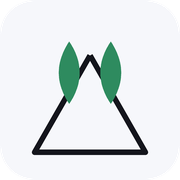
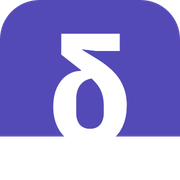
Brand: the mark is now the lowercase Greek delta
The mark was a drawn triangle with two mint sprigs in it. It gestured at a
delta without being one, and the sprigs were a pun on the second half of the
name rather than anything a trader reads.

It is now the letter itself: the lowercase delta, the one on every option
chain and in our own positions table. The product is named after it and
reports it; the logo may as well be it.

WHY A BAKED PATH AND NOT <text>.

The glyph is IBM Plex Sans 700 -- the family the wordmark beside it is already
set in, so the mark and the word are one drawing used twice rather than a
shape bolted to a word. But a <text> element resolves against whatever font
the renderer has: a browser mid-webfont-load, a tab strip that loads no
webfonts at all, an email client, the PDF exporter. Each would substitute a
different delta and the brand would change shape depending on where it was
looked at. The outline was extracted once from the Plex Sans 700 Greek subset
(U+03B4) and baked into coordinates, so every surface draws the identical
letter with nothing to load. IBM Plex is OFL-licensed, which permits this.

It is centred on the glyph's own bounds, not its advance width -- a letter
carries side bearings meant for setting words, and leaving them in puts a
standalone mark visibly off-centre.

THE WORDMARK IS UNTOUCHED. Still lowercase, still mint on "mint". That was the
instruction and it is the smaller change; casing is a separate decision and is
still open.
[…]

diff --git a/src/components/brand/DeltaMintMark.jsx b/src/components/brand/DeltaMintMark.jsx
@@ -1,10 +1,35 @@
-// The DeltaMint mark: violet delta outline with two mint sprigs. Never recolored.
-export default function DeltaMintMark({ size = 26, className = "" }) {
+// The DeltaMint mark: the lowercase Greek delta.
+//
+// Not a drawn triangle any more. The mark IS the letter traders already read on
+// every option chain — the same delta the product is named after and the same
+// one it reports in the positions table — so the logo and the vocabulary agree
+// instead of the logo gesturing at it with a shape.
+//
+// WHY THIS IS A PATH AND NOT <text>.
+//
+// The glyph is IBM Plex Sans 700, the family the wordmark beside it is set in,
+// so the mark and the word are one drawing used twice. But a <text> element
+// resolves against whatever font the renderer happens to have: a browser that
+// has not finished loading Plex, a favicon tab strip that loads no webfonts at
+// all, an email client, a PDF exporter — each would substitute a different
+// delta, and the brand would quietly change shape depending on where it was
+// looked at. The outline was extracted once from the Plex Sans 700 Greek subset
+// (U+03B4) and baked into coordinates, so every surface draws the identical
+// letter with nothing to load. IBM Plex is OFL-licensed, which permits this.
+//
+// Fitted to a 32-unit box with 3 units of margin top and bottom, horizontally
+// centred on the glyph's own bounds rather than its advance width — a letter
+// carries side bearings meant for setting words, and leaving them in makes a
+// standalone mark sit visibly off-centre.
+export const DELTA_PATH =
+  "M16.97 13.27Q15.62 13.3 14.69 13.94Q13.75 14.58 13.29 15.64Q12.82 16.69 12.82 18.11V21.36Q12.82 22.5 13.2 23.31Q13.58 24.12 14.29 24.54Q15 24.95 16 24.95Q17 24.95 17.71 24.54Q18.42 24.12 18.8 23.31Q19.18 22.5 19.18 21.36V19.56Q19.18 18.52 18.99 17.61Q18.8 16.69 18.4 15.88Q18.01 15.07 17.33 14.31Q16.66 13.55 15.72 12.82L9.36 7.84V3H22.88V6.98H17.42L14.2 6.6V6.73L17.83 8.95Q19.66 10.09 20.94 11.28Q22.22 12.47 23 13.79Q23.78 15.1 24.14 16.52Q24.51 17.94 24.51 19.49Q24.51 22.43 23.49 24.56Q22.47 26.68 20.56 27.84Q18.66 29 16 29Q13.34 29 11.44 27.82Q9.53 26.65 8.51 24.61Q7.49 22.57 7.49 19.94Q7.49 17.24 8.39 15.38Q9.29 13.51 10.74 12.54Q12.2 11.57 13.89 11.57V10.81Z";
+
+// One shape, one fill. The mark stays legible in a single colour, which is what
+// a favicon, a printed page and an email signature all eventually reduce it to.
+export default function DeltaMintMark({ size = 26, color = "#534AB7", className = "" }) {
   return (
-    <svg width={size} height={size} viewBox="0 0 26 26" className={className} aria-hidden="true">
-      <path d="M13 8 L21 22 L5 22 Z" fill="none" stroke="#534AB7" strokeWidth="1.6" />
-      <path d="M10 15 Q13 10.5 10 6 Q7 10.5 10 15 Z" fill="#3FA672" />
-      <path d="M16 15 Q19 10.5 16 6 Q13 10.5 16 15 Z" fill="#3FA672" />
+    <svg width={size} height={size} viewBox="0 0 32 32" className={className} aria-hidden="true">
+      <path d={DELTA_PATH} fill={color} />
     </svg>
   );
 }

diff --git a/landing/drafts/pricing/index.html b/landing/drafts/pricing/index.html
@@ -117,7 +117,7 @@
 <div class="wrap">
   <nav class="nav">
     <a class="brandmark" href="/">
-      <svg width="24" height="24" viewBox="0 0 26 26" aria-hidden="true"><path d="M13 8 L21 22 L5 22 Z" fill="none" stroke="currentColor" stroke-width="1.6"/><path d="M10 15 Q13 10.5 10 6 Q7 10.5 10 15 Z" fill="#3FA672"/><path d="M16 15 Q19 10.5 16 6 Q13 10.5 16 15 Z" fill="#3FA672"/></svg>
+      <svg width="24" height="24" viewBox="0 0 32 32" aria-hidden="true"><path d="M16.97 13.27Q15.62 13.3 14.69 13.94Q13.75 14.58 13.29 15.64Q12.82 16.69 12.82 18.11V21.36Q12.82 22.5 13.2 23.31Q13.58 24.12 14.29 24.54Q15 24.95 16 24.95Q17 24.95 17.71 24.54Q18.42 24.12 18.8 23.31Q19.18 22.5 19.18 21.36V19.56Q19.18 18.52 18.99 17.61Q18.8 16.69 18.4 15.88Q18.01 15.07 17.33 14.31Q16.66 13.55 15.72 12.82L9.36 7.84V3H22.88V6.98H17.42L14.2 6.6V6.73L17.83 8.95Q19.66 10.09 20.94 11.28Q22.22 12.47 23 13.79Q23.78 15.1 24.14 16.52Q24.51 17.94 24.51 19.49Q24.51 22.43 23.49 24.56Q22.47 26.68 20.56 27.84Q18.66 29 16 29Q13.34 29 11.44 27.82Q9.53 26.65 8.51 24.61Q7.49 22.57 7.49 19.94Q7.49 17.24 8.39 15.38Q9.29 13.51 10.74 12.54Q12.2 11.57 13.89 11.57V10.81Z" fill="var(--brand)"/></svg>
       <span>DeltaMint</span>
     </a>
     <div class="right">
@@ -209,7 +209,7 @@
   <div class="wrap">
     <div class="frow">
       <a class="brandmark" href="/" style="margin-right:auto">
-        <svg width="20" height="20" viewBox="0 0 26 26" aria-hidden="true"><path d="M13 8 L21 22 L5 22 Z" fill="none" stroke="currentColor" stroke-width="1.6"/><path d="M10 15 Q13 10.5 10 6 Q7 10.5 10 15 Z" fill="#3FA672"/><path d="M16 15 Q19 10.5 16 6 Q13 10.5 16 15 Z" fill="#3FA672"/></svg>
+        <svg width="20" height="20" viewBox="0 0 32 32" aria-hidden="true"><path d="M16.97 13.27Q15.62 13.3 14.69 13.94Q13.75 14.58 13.29 15.64Q12.82 16.69 12.82 18.11V21.36Q12.82 22.5 13.2 23.31Q13.58 24.12 14.29 24.54Q15 24.95 16 24.95Q17 24.95 17.71 24.54Q18.42 24.12 18.8 23.31Q19.18 22.5 19.18 21.36V19.56Q19.18 18.52 18.99 17.61Q18.8 16.69 18.4 15.88Q18.01 15.07 17.33 14.31Q16.66 13.55 15.72 12.82L9.36 7.84V3H22.88V6.98H17.42L14.2 6.6V6.73L17.83 8.95Q19.66 10.09 20.94 11.28Q22.22 12.47 23 13.79Q23.78 15.1 24.14 16.52Q24.51 17.94 24.51 19.49Q24.51 22.43 23.49 24.56Q22.47 26.68 20.56 27.84Q18.66 29 16 29Q13.34 29 11.44 27.82Q9.53 26.65 8.51 24.61Q7.49 22.57 7.49 19.94Q7.49 17.24 8.39 15.38Q9.29 13.51 10.74 12.54Q12.2 11.57 13.89 11.57V10.81Z" fill="var(--brand)"/></svg>
         <span style="font-size:.95rem">DeltaMint</span>
       </a>
       <a href="/blog">Blog</a>

diff --git a/landing/public/index.html b/landing/public/index.html
@@ -142,7 +142,7 @@
 <div class="wrap">
   <nav class="nav">
     <a class="brandmark" href="/">
-      <svg width="24" height="24" viewBox="0 0 26 26" aria-hidden="true"><path d="M13 8 L21 22 L5 22 Z" fill="none" stroke="currentColor" stroke-width="1.6"/><path d="M10 15 Q13 10.5 10 6 Q7 10.5 10 15 Z" fill="#3FA672"/><path d="M16 15 Q19 10.5 16 6 Q13 10.5 16 15 Z" fill="#3FA672"/></svg>
+      <svg width="24" height="24" viewBox="0 0 32 32" aria-hidden="true"><path d="M16.97 13.27Q15.62 13.3 14.69 13.94Q13.75 14.58 13.29 15.64Q12.82 16.69 12.82 18.11V21.36Q12.82 22.5 13.2 23.31Q13.58 24.12 14.29 24.54Q15 24.95 16 24.95Q17 24.95 17.71 24.54Q18.42 24.12 18.8 23.31Q19.18 22.5 19.18 21.36V19.56Q19.18 18.52 18.99 17.61Q18.8 16.69 18.4 15.88Q18.01 15.07 17.33 14.31Q16.66 13.55 15.72 12.82L9.36 7.84V3H22.88V6.98H17.42L14.2 6.6V6.73L17.83 8.95Q19.66 10.09 20.94 11.28Q22.22 12.47 23 13.79Q23.78 15.1 24.14 16.52Q24.51 17.94 24.51 19.49Q24.51 22.43 23.49 24.56Q22.47 26.68 20.56 27.84Q18.66 29 16 29Q13.34 29 11.44 27.82Q9.53 26.65 8.51 24.61Q7.49 22.57 7.49 19.94Q7.49 17.24 8.39 15.38Q9.29 13.51 10.74 12.54Q12.2 11.57 13.89 11.57V10.81Z" fill="var(--brand)"/></svg>
       <span>DeltaMint</span>
     </a>
     <div class="right">
@@ -711,7 +711,7 @@
   <div class="wrap">
     <div class="frow">
       <a class="brandmark" href="/" style="margin-right:auto">
-        <svg width="20" height="20" viewBox="0 0 26 26" aria-hidden="true"><path d="M13 8 L21 22 L5 22 Z" fill="none" stroke="currentColor" stroke-width="1.6"/><path d="M10 15 Q13 10.5 10 6 Q7 10.5 10 15 Z" fill="#3FA672"/><path d="M16 15 Q19 10.5 16 6 Q13 10.5 16 15 Z" fill="#3FA672"/></svg>
+        <svg width="20" height="20" viewBox="0 0 32 32" aria-hidden="true"><path d="M16.97 13.27Q15.62 13.3 14.69 13.94Q13.75 14.58 13.29 15.64Q12.82 16.69 12.82 18.11V21.36Q12.82 22.5 13.2 23.31Q13.58 24.12 14.29 24.54Q15 24.95 16 24.95Q17 24.95 17.71 24.54Q18.42 24.12 18.8 23.31Q19.18 22.5 19.18 21.36V19.56Q19.18 18.52 18.99 17.61Q18.8 16.69 18.4 15.88Q18.01 15.07 17.33 14.31Q16.66 13.55 15.72 12.82L9.36 7.84V3H22.88V6.98H17.42L14.2 6.6V6.73L17.83 8.95Q19.66 10.09 20.94 11.28Q22.22 12.47 23 13.79Q23.78 15.1 24.14 16.52Q24.51 17.94 24.51 19.49Q24.51 22.43 23.49 24.56Q22.47 26.68 20.56 27.84Q18.66 29 16 29Q13.34 29 11.44 27.82Q9.53 26.65 8.51 24.61Q7.49 22.57 7.49 19.94Q7.49 17.24 8.39 15.38Q9.29 13.51 10.74 12.54Q12.2 11.57 13.89 11.57V10.81Z" fill="var(--brand)"/></svg>
         <span style="font-size:.95rem">DeltaMint</span>
       </a>
       <a href="/blog">Blog</a>

diff --git a/landing/public/privacy/index.html b/landing/public/privacy/index.html
@@ -122,7 +122,7 @@
 <div class="wrap">
   <nav class="nav">
     <a class="brandmark" href="/">
-      <svg width="24" height="24" viewBox="0 0 26 26" aria-hidden="true"><path d="M13 8 L21 22 L5 22 Z" fill="none" stroke="currentColor" stroke-width="1.6"/><path d="M10 15 Q13 10.5 10 6 Q7 10.5 10 15 Z" fill="#3FA672"/><path d="M16 15 Q19 10.5 16 6 Q13 10.5 16 15 Z" fill="#3FA672"/></svg>
+      <svg width="24" height="24" viewBox="0 0 32 32" aria-hidden="true"><path d="M16.97 13.27Q15.62 13.3 14.69 13.94Q13.75 14.58 13.29 15.64Q12.82 16.69 12.82 18.11V21.36Q12.82 22.5 13.2 23.31Q13.58 24.12 14.29 24.54Q15 24.95 16 24.95Q17 24.95 17.71 24.54Q18.42 24.12 18.8 23.31Q19.18 22.5 19.18 21.36V19.56Q19.18 18.52 18.99 17.61Q18.8 16.69 18.4 15.88Q18.01 15.07 17.33 14.31Q16.66 13.55 15.72 12.82L9.36 7.84V3H22.88V6.98H17.42L14.2 6.6V6.73L17.83 8.95Q19.66 10.09 20.94 11.28Q22.22 12.47 23 13.79Q23.78 15.1 24.14 16.52Q24.51 17.94 24.51 19.49Q24.51 22.43 23.49 24.56Q22.47 26.68 20.56 27.84Q18.66 29 16 29Q13.34 29 11.44 27.82Q9.53 26.65 8.51 24.61Q7.49 22.57 7.49 19.94Q7.49 17.24 8.39 15.38Q9.29 13.51 10.74 12.54Q12.2 11.57 13.89 11.57V10.81Z" fill="var(--brand)"/></svg>
       <span>DeltaMint</span>
     </a>
     <div class="right">
@@ -194,7 +194,7 @@
   <div class="wrap">
     <div class="frow">
       <a class="brandmark" href="/" style="margin-right:auto">
-        <svg width="20" height="20" viewBox="0 0 26 26" aria-hidden="true"><path d="M13 8 L21 22 L5 22 Z" fill="none" stroke="currentColor" stroke-width="1.6"/><path d="M10 15 Q13 10.5 10 6 Q7 10.5 10 15 Z" fill="#3FA672"/><path d="M16 15 Q19 10.5 16 6 Q13 10.5 16 15 Z" fill="#3FA672"/></svg>
+        <svg width="20" height="20" viewBox="0 0 32 32" aria-hidden="true"><path d="M16.97 13.27Q15.62 13.3 14.69 13.94Q13.75 14.58 13.29 15.64Q12.82 16.69 12.82 18.11V21.36Q12.82 22.5 13.2 23.31Q13.58 24.12 14.29 24.54Q15 24.95 16 24.95Q17 24.95 17.71 24.54Q18.42 24.12 18.8 23.31Q19.18 22.5 19.18 21.36V19.56Q19.18 18.52 18.99 17.61Q18.8 16.69 18.4 15.88Q18.01 15.07 17.33 14.31Q16.66 13.55 15.72 12.82L9.36 7.84V3H22.88V6.98H17.42L14.2 6.6V6.73L17.83 8.95Q19.66 10.09 20.94 11.28Q22.22 12.47 23 13.79Q23.78 15.1 24.14 16.52Q24.51 17.94 24.51 19.49Q24.51 22.43 23.49 24.56Q22.47 26.68 20.56 27.84Q18.66 29 16 29Q13.34 29 11.44 27.82Q9.53 26.65 8.51 24.61Q7.49 22.57 7.49 19.94Q7.49 17.24 8.39 15.38Q9.29 13.51 10.74 12.54Q12.2 11.57 13.89 11.57V10.81Z" fill="var(--brand)"/></svg>
         <span style="font-size:.95rem">DeltaMint</span>
       </a>
       <a href="/blog">Blog</a>

diff --git a/landing/public/terms/index.html b/landing/public/terms/index.html
@@ -122,7 +122,7 @@
 <div class="wrap">
   <nav class="nav">
     <a class="brandmark" href="/">
-      <svg width="24" height="24" viewBox="0 0 26 26" aria-hidden="true"><path d="M13 8 L21 22 L5 22 Z" fill="none" stroke="currentColor" stroke-width="1.6"/><path d="M10 15 Q13 10.5 10 6 Q7 10.5 10 15 Z" fill="#3FA672"/><path d="M16 15 Q19 10.5 16 6 Q13 10.5 16 15 Z" fill="#3FA672"/></svg>
+      <svg width="24" height="24" viewBox="0 0 32 32" aria-hidden="true"><path d="M16.97 13.27Q15.62 13.3 14.69 13.94Q13.75 14.58 13.29 15.64Q12.82 16.69 12.82 18.11V21.36Q12.82 22.5 13.2 23.31Q13.58 24.12 14.29 24.54Q15 24.95 16 24.95Q17 24.95 17.71 24.54Q18.42 24.12 18.8 23.31Q19.18 22.5 19.18 21.36V19.56Q19.18 18.52 18.99 17.61Q18.8 16.69 18.4 15.88Q18.01 15.07 17.33 14.31Q16.66 13.55 15.72 12.82L9.36 7.84V3H22.88V6.98H17.42L14.2 6.6V6.73L17.83 8.95Q19.66 10.09 20.94 11.28Q22.22 12.47 23 13.79Q23.78 15.1 24.14 16.52Q24.51 17.94 24.51 19.49Q24.51 22.43 23.49 24.56Q22.47 26.68 20.56 27.84Q18.66 29 16 29Q13.34 29 11.44 27.82Q9.53 26.65 8.51 24.61Q7.49 22.57 7.49 19.94Q7.49 17.24 8.39 15.38Q9.29 13.51 10.74 12.54Q12.2 11.57 13.89 11.57V10.81Z" fill="var(--brand)"/></svg>
       <span>DeltaMint</span>
     </a>
     <div class="right">
@@ -217,7 +217,7 @@
   <div class="wrap">
     <div class="frow">
       <a class="brandmark" href="/" style="margin-right:auto">
-        <svg width="20" height="20" viewBox="0 0 26 26" aria-hidden="true"><path d="M13 8 L21 22 L5 22 Z" fill="none" stroke="currentColor" stroke-width="1.6"/><path d="M10 15 Q13 10.5 10 6 Q7 10.5 10 15 Z" fill="#3FA672"/><path d="M16 15 Q19 10.5 16 6 Q13 10.5 16 15 Z" fill="#3FA672"/></svg>
+        <svg width="20" height="20" viewBox="0 0 32 32" aria-hidden="true"><path d="M16.97 13.27Q15.62 13.3 14.69 13.94Q13.75 14.58 13.29 15.64Q12.82 16.69 12.82 18.11V21.36Q12.82 22.5 13.2 23.31Q13.58 24.12 14.29 24.54Q15 24.95 16 24.95Q17 24.95 17.71 24.54Q18.42 24.12 18.8 23.31Q19.18 22.5 19.18 21.36V19.56Q19.18 18.52 18.99 17.61Q18.8 16.69 18.4 15.88Q18.01 15.07 17.33 14.31Q16.66 13.55 15.72 12.82L9.36 7.84V3H22.88V6.98H17.42L14.2 6.6V6.73L17.83 8.95Q19.66 10.09 20.94 11.28Q22.22 12.47 23 13.79Q23.78 15.1 24.14 16.52Q24.51 17.94 24.51 19.49Q24.51 22.43 23.49 24.56Q22.47 26.68 20.56 27.84Q18.66 29 16 29Q13.34 29 11.44 27.82Q9.53 26.65 8.51 24.61Q7.49 22.57 7.49 19.94Q7.49 17.24 8.39 15.38Q9.29 13.51 10.74 12.54Q12.2 11.57 13.89 11.57V10.81Z" fill="var(--brand)"/></svg>
         <span style="font-size:.95rem">DeltaMint</span>
       </a>
       <a href="/blog">Blog</a>

diff --git a/landing/src/render.js b/landing/src/render.js
@@ -116,7 +116,7 @@ export function formatDate(iso) {
   return new Date(iso).toLocaleDateString("en-US", { year: "numeric", month: "long", day: "numeric" });
 }
 
-const MARK = `<svg width="24" height="24" viewBox="0 0 26 26" aria-hidden="true"><path d="M13 8 L21 22 L5 22 Z" fill="none" stroke="currentColor" stroke-width="1.6"/><path d="M10 15 Q13 10.5 10 6 Q7 10.5 10 15 Z" fill="#3FA672"/><path d="M16 15 Q19 10.5 16 6 Q13 10.5 16 15 Z" fill="#3FA672"/></svg>`;
+const MARK = `<svg width="24" height="24" viewBox="0 0 32 32" aria-hidden="true"><path d="M16.97 13.27Q15.62 13.3 14.69 13.94Q13.75 14.58 13.29 15.64Q12.82 16.69 12.82 18.11V21.36Q12.82 22.5 13.2 23.31Q13.58 24.12 14.29 24.54Q15 24.95 16 24.95Q17 24.95 17.71 24.54Q18.42 24.12 18.8 23.31Q19.18 22.5 19.18 21.36V19.56Q19.18 18.52 18.99 17.61Q18.8 16.69 18.4 15.88Q18.01 15.07 17.33 14.31Q16.66 13.55 15.72 12.82L9.36 7.84V3H22.88V6.98H17.42L14.2 6.6V6.73L17.83 8.95Q19.66 10.09 20.94 11.28Q22.22 12.47 23 13.79Q23.78 15.1 24.14 16.52Q24.51 17.94 24.51 19.49Q24.51 22.43 23.49 24.56Q22.47 26.68 20.56 27.84Q18.66 29 16 29Q13.34 29 11.44 27.82Q9.53 26.65 8.51 24.61Q7.49 22.57 7.49 19.94Q7.49 17.24 8.39 15.38Q9.29 13.51 10.74 12.54Q12.2 11.57 13.89 11.57V10.81Z" fill="var(--brand)"/></svg>`;
 
 // Matches the static pages' nav, footer and disclaimer so a blog page is not
 // visibly a different site. The disclaimer text is copied verbatim from
